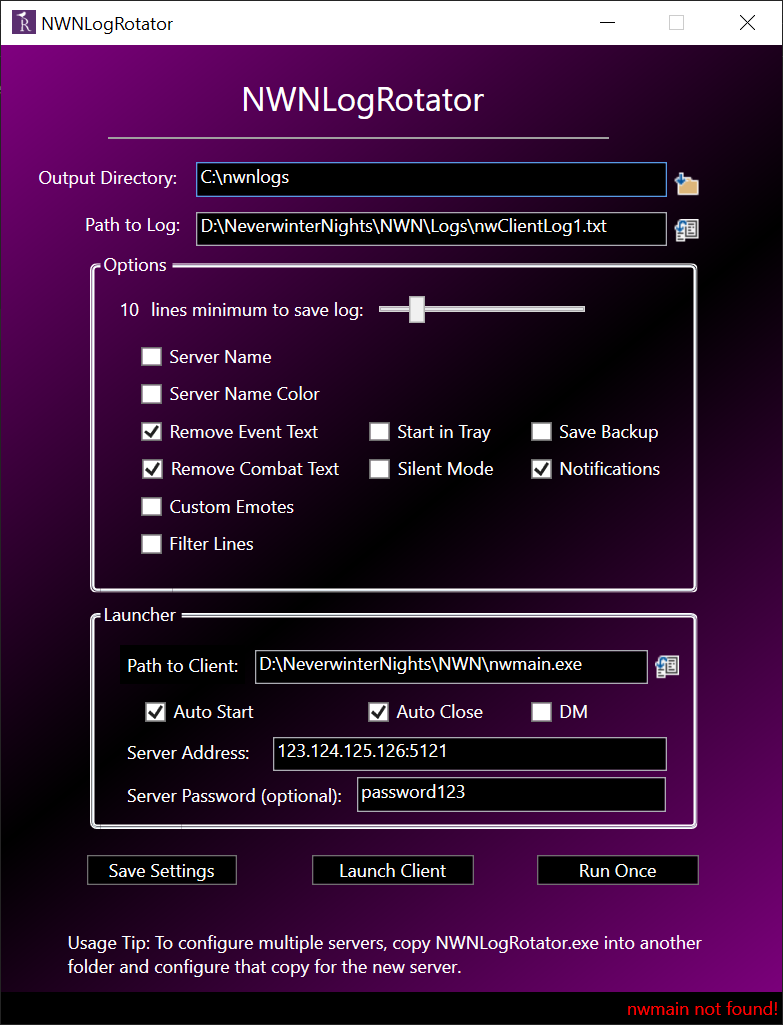
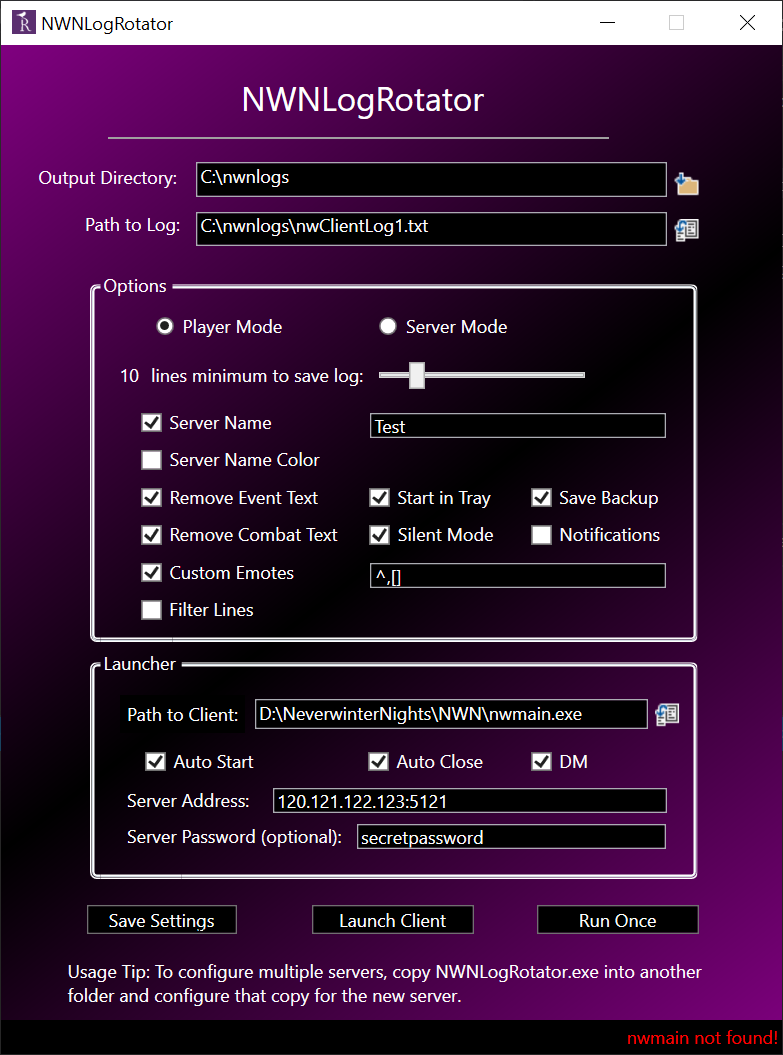
New server mode build & various UI changes

Changed region(s): [[0.0307, 0.0624, 0.9195, 0.9678], [0.0307, 0.0, 0.2146, 0.0312], [0.8889, 0.9678, 0.9195, 0.999]]

diff --git a/NWNLogRotator.xaml b/NWNLogRotator.xaml
@@ -19,9 +19,8 @@
         <Separator HorizontalAlignment="Left" Height="16" Margin="14,54,0,0" VerticalAlignment="Top" Width="334" Grid.Column="2"/>
         <TextBox x:Name="OutputDirectoryTextBox" HorizontalAlignment="Left" Height="23" Margin="73,78,0,0" TextWrapping="Wrap" Text="" VerticalAlignment="Top" Width="314" Grid.Column="2" RenderTransformOrigin="0.965,0.275"/>
         <TextBlock x:Name="SettingsTextBlock" Grid.Column="2" HorizontalAlignment="Left" Margin="103,20,0,0" TextWrapping="Wrap" VerticalAlignment="Top" FontSize="22" MouseDown="InvertColorScheme" MouseEnter="SettingsTextBlock_MouseEnter" MouseLeave="SettingsTextBlock_MouseLeave" ToolTip="Click here to change the theme!"><Run Text="NWNLogRotator"/></TextBlock>
-        <GroupBox x:Name="FlagGroupBox" Header="Options" HorizontalAlignment="Right" Height="247" Margin="0,151,56.333,0" VerticalAlignment="Top" Width="405" Grid.Column="2">
-            <TextBox x:Name="FilterLinesTextBox" HorizontalAlignment="Left" Height="17" Margin="180,172,0,0" TextWrapping="Wrap" Text="" VerticalAlignment="Top" Width="197" RenderTransformOrigin="0.965,0.275" Visibility="Collapsed" />
-        </GroupBox>
+        <GroupBox x:Name="FlagGroupBox" Header="Options" HorizontalAlignment="Right" Height="247" Margin="0,151,56.333,0" VerticalAlignment="Top" Width="405" Grid.Column="2"></GroupBox>
+        <TextBox x:Name="FilterLinesTextBox" HorizontalAlignment="Left" Height="17" Margin="189,369,0,0" TextWrapping="Wrap" Text="" VerticalAlignment="Top" Width="197" RenderTransformOrigin="0.965,0.275" Visibility="Collapsed" Grid.Column="2" />
         <CheckBox x:Name="EventTextCheckBox" Content="Remove Event Text" Grid.Column="2" HorizontalAlignment="Right" Margin="0,294,309.333,0" VerticalAlignment="Top" RenderTransformOrigin="0.5,0.5"/>
         <CheckBox x:Name="CombatTextCheckBox" Content="Remove Combat Text" Grid.Column="2" HorizontalAlignment="Right" Margin="0,319,296.333,0" VerticalAlignment="Top" RenderTransformOrigin="0.341,0.609"/>
         <Label x:Name="PathToLogLabel" Content="Path to Log:" HorizontalAlignment="Left" Margin="11.667,106,0,0" VerticalAlignment="Top" RenderTransformOrigin="0.44,2.721" Grid.Column="1" Grid.ColumnSpan="2"/>
@@ -38,9 +37,9 @@
             <TextBlock x:Name="NWNStatusTextBlock" TextWrapping="Wrap" Text="nwn.status" Width="152" RenderTransformOrigin="1.135,0.25" Height="29" TextAlignment="Right"/>
         </StatusBar>
         <Button x:Name="RunOnceButton" Content="Run Once" Grid.Column="2" HorizontalAlignment="Left" Margin="300,573,0,0" VerticalAlignment="Top" Width="108" RenderTransformOrigin="2.04,0.867" Click="Button_Click_1"/>
-        <TextBox x:Name="ServerNameTextBox" HorizontalAlignment="Left" Height="17" Margin="189,200,0,0" TextWrapping="Wrap" Text="" VerticalAlignment="Top" Width="197" Grid.Column="2" RenderTransformOrigin="0.965,0.275" Visibility="Collapsed"/>
-        <TextBox x:Name="ServerNameColorTextBox" HorizontalAlignment="Left" Height="17" Margin="189,225,0,0" TextWrapping="Wrap" Text="" VerticalAlignment="Top" Width="197" Grid.Column="2" RenderTransformOrigin="0.965,0.275" MaxLength="6" Visibility="Collapsed" />
-        <ProgressBar x:Name="StatusBarProgressBar" Grid.Column="2" HorizontalAlignment="Left" Height="10" Margin="149,574,0,0" VerticalAlignment="Top" Width="108" IsIndeterminate="True" Visibility="Collapsed"/>
+        <TextBox x:Name="ServerNameTextBox" HorizontalAlignment="Left" Height="17" Margin="189,245,0,0" TextWrapping="Wrap" Text="" VerticalAlignment="Top" Width="197" Grid.Column="2" RenderTransformOrigin="0.965,0.275" Visibility="Collapsed"/>
+        <TextBox x:Name="ServerNameColorTextBox" HorizontalAlignment="Left" Height="17" Margin="189,269,0,0" TextWrapping="Wrap" Text="" VerticalAlignment="Top" Width="197" Grid.Column="2" RenderTransformOrigin="0.965,0.275" MaxLength="6" Visibility="Collapsed" />
+        <ProgressBar x:Name="StatusBarProgressBar" Grid.Column="2" HorizontalAlignment="Left" Height="10" Margin="149,655,0,0" VerticalAlignment="Top" Width="108" IsIndeterminate="True" Visibility="Collapsed"/>
         <Image x:Name="OutputDirectoryButtonImage" Grid.Column="2" HorizontalAlignment="Left" Height="16" Margin="392,85,0,0" VerticalAlignment="Top" Width="16" RenderTransformOrigin="2.303,1.51" Source="Assets/Images/DownloadFolder_16x.png" MouseDown="Image_MouseDown"/>
         <Image x:Name="PathToLogButtonImage" Grid.Column="2" HorizontalAlignment="Left" Height="16" Margin="392,116,0,0" VerticalAlignment="Top" Width="16" RenderTransformOrigin="2.303,1.51" Source="Assets/Images/AssociationEditor_16x.png" MouseDown="Image_MouseDown2"/>
         <CheckBox x:Name="TrayCheckBox" Content="Start in Tray" Grid.Column="2" HorizontalAlignment="Right" Margin="0,294,194.333,0" VerticalAlignment="Top" RenderTransformOrigin="0.618,0.109"/>
@@ -49,19 +48,17 @@
         <CheckBox x:Name="NotificationsCheckBox" Content="Notifications" Grid.Column="2" HorizontalAlignment="Right" Margin="0,319,81.333,0" VerticalAlignment="Top" RenderTransformOrigin="0.341,0.609"/>
         <CheckBox x:Name="CustomEmotesCheckBox" Content="Custom Emotes" Grid.Column="2" HorizontalAlignment="Right" Margin="0,344,325.333,0" VerticalAlignment="Top" RenderTransformOrigin="0.341,0.609" Checked="CustomEmotesCheckBox_Checked" Unchecked="CustomEmotesCheckBox_Unchecked"/>
         <CheckBox x:Name="FilterLinesCheckBox" Content="Filter Lines" Grid.Column="2" HorizontalAlignment="Right" Margin="0,369,352.333,0" VerticalAlignment="Top" RenderTransformOrigin="0.341,0.609" Unchecked="FilterLinesCheckBox_Unchecked" Checked="FilterLinesCheckBox_Checked"/>
-        <TextBox x:Name="CustomEmotesTextBox" HorizontalAlignment="Left" Height="17" Margin="189,300,0,0" TextWrapping="Wrap" Text="" VerticalAlignment="Top" Width="197" Grid.Column="2" RenderTransformOrigin="0.965,0.275" MaxLength="6" Visibility="Collapsed" />
-        <GroupBox x:Name="LauncherGroupBox" Header="Launcher" HorizontalAlignment="Right" Height="153" Margin="0,403,56.333,0" VerticalAlignment="Top" Width="405" Grid.Column="2">
-            <TextBox x:Name="FilterLinesTextBox1" HorizontalAlignment="Left" Height="17" Margin="180,172,0,0" TextWrapping="Wrap" Text="" VerticalAlignment="Top" Width="197" RenderTransformOrigin="0.965,0.275" Visibility="Collapsed" />
-        </GroupBox>
+        <TextBox x:Name="CustomEmotesTextBox" HorizontalAlignment="Left" Height="17" Margin="189,345,0,0" TextWrapping="Wrap" Text="" VerticalAlignment="Top" Width="197" Grid.Column="2" RenderTransformOrigin="0.965,0.275" MaxLength="6" Visibility="Collapsed" />
+        <GroupBox x:Name="LauncherGroupBox" Header="Launcher" HorizontalAlignment="Right" Height="153" Margin="0,403,56.333,0" VerticalAlignment="Top" Width="405" Grid.Column="2"></GroupBox>
         <CheckBox x:Name="RunClientOnLaunchCheckBox" Content="Auto Start" Grid.Column="2" HorizontalAlignment="Right" Margin="0,470,352.333,0" VerticalAlignment="Top" RenderTransformOrigin="0.004,0.604"/>
         <CheckBox x:Name="CloseAfterGenerationCheckBox" Content="Auto Close" Grid.Column="2" HorizontalAlignment="Right" Margin="0,470,199.333,0" VerticalAlignment="Top" RenderTransformOrigin="0.004,0.604"/>
         <Label x:Name="PathToClientLabel" Content="Path to Client:" HorizontalAlignment="Left" Margin="22,433,0,0" VerticalAlignment="Top" RenderTransformOrigin="0.44,2.721" Grid.Column="2"/>
-        <TextBox x:Name="PathToClientTextBox" HorizontalAlignment="Left" Height="23" Margin="112,436,0,0" TextWrapping="Wrap" Text="" VerticalAlignment="Top" Width="262" Grid.Column="2" RenderTransformOrigin="0.965,0.275"/>
-        <Image x:Name="PathToClientImage" Grid.Column="2" HorizontalAlignment="Left" Height="16" Margin="379,440,0,0" VerticalAlignment="Top" Width="16" RenderTransformOrigin="2.303,1.51" Source="Assets/Images/AssociationEditor_16x.png" MouseDown="Image_MouseDown3"/>
-        <TextBox x:Name="ServerAddressTextBox" HorizontalAlignment="Left" Height="23" Margin="124,494,0,0" TextWrapping="Wrap" Text="" VerticalAlignment="Top" Width="263" Grid.Column="2" RenderTransformOrigin="0.965,0.275"/>
-        <Label x:Name="ServerAddressLabel" Content="Server Address:" HorizontalAlignment="Left" Margin="22,491,0,0" VerticalAlignment="Top" RenderTransformOrigin="0.44,2.721" Grid.Column="2"/>
-        <Label x:Name="ServerPasswordLabel" Content="Server Password (optional):" HorizontalAlignment="Left" Margin="22,520,0,0" VerticalAlignment="Top" RenderTransformOrigin="0.44,2.721" Grid.Column="2"/>
-        <TextBox x:Name="ServerPasswordTextBox" HorizontalAlignment="Left" Height="23" Margin="180,521,0,0" TextWrapping="Wrap" Text="" VerticalAlignment="Top" Width="206" Grid.Column="2" RenderTransformOrigin="0.965,0.275"/>
+        <TextBox x:Name="PathToClientTextBox" HorizontalAlignment="Left" Height="20" Margin="112,436,0,0" TextWrapping="Wrap" Text="" VerticalAlignment="Top" Width="262" Grid.Column="2" RenderTransformOrigin="0.965,0.275"/>
+        <Image x:Name="PathToClientImage" Grid.Column="2" HorizontalAlignment="Left" Height="16" Margin="379,439,0,0" VerticalAlignment="Top" Width="16" RenderTransformOrigin="2.303,1.51" Source="Assets/Images/AssociationEditor_16x.png" MouseDown="Image_MouseDown3"/>
+        <TextBox x:Name="ServerAddressTextBox" HorizontalAlignment="Left" Height="17" Margin="124,495,0,0" TextWrapping="Wrap" Text="" VerticalAlignment="Top" Width="263" Grid.Column="2" RenderTransformOrigin="0.965,0.275"/>
+        <Label x:Name="ServerAddressLabel" Content="Server Address:" HorizontalAlignment="Left" Margin="22,490,0,0" VerticalAlignment="Top" RenderTransformOrigin="0.44,2.721" Grid.Column="2"/>
+        <Label x:Name="ServerPasswordLabel" Content="Server Password (optional):" HorizontalAlignment="Left" Margin="22,514,0,0" VerticalAlignment="Top" RenderTransformOrigin="0.44,2.721" Grid.Column="2"/>
+        <TextBox x:Name="ServerPasswordTextBox" HorizontalAlignment="Left" Height="17" Margin="180,519,0,0" TextWrapping="Wrap" Text="" VerticalAlignment="Top" Width="206" Grid.Column="2" RenderTransformOrigin="0.965,0.275"/>
         <Label x:Name="HintLabel" Content="Usage Tip: To configure multiple servers, copy NWNLogRotator.exe into another&#xD;&#xA;folder and configure that copy for the new server." HorizontalAlignment="Left" Margin="0,604,0,0" VerticalAlignment="Top" RenderTransformOrigin="0.44,2.721" Grid.Column="1" Width="460" Height="42" Grid.ColumnSpan="2" />
         <Button x:Name="LaunchClientButton" Content="Launch Client" Grid.Column="2" HorizontalAlignment="Left" Margin="150,573,0,0" VerticalAlignment="Top" Width="108" RenderTransformOrigin="2.04,0.867" Click="Button_Click_3"/>
         <CheckBox x:Name="DMCheckBox" Content="DM" Grid.Column="2" HorizontalAlignment="Right" Margin="0,470,129.333,0" VerticalAlignment="Top" RenderTransformOrigin="0.004,0.604"/>

diff --git a/NWNLogRotator.xaml.cs b/NWNLogRotator.xaml.cs
@@ -37,7 +37,6 @@ namespace NWNLogRotator
         {
             LoadSettings_Handler();
             IterateNWN_Watcher(false);
-            LoadTray_Handler();
         }
 
         private Settings Settings_Get()
@@ -338,7 +337,9 @@ namespace NWNLogRotator
 
             UpdateResultsPane(3);
 
-            if(_settings.RunClientOnLaunch)
+            LoadTray_Handler();
+
+            if (_settings.RunClientOnLaunch)
                 LaunchClient();
         }
 
@@ -506,7 +507,7 @@ namespace NWNLogRotator
             return false;
         }
 
-        private void LaunchClient()
+        private async void LaunchClient()
         {
             _settings = CurrentSettings_Get();
             var theLaunchPath = "";
@@ -548,10 +549,13 @@ namespace NWNLogRotator
                     p.StartInfo.CreateNoWindow = true;
                     ClientLauncherState = 1;
                     IterateNWN_Watcher(false);
-                    p.Start();
-                    p.WaitForExit();
-                    ClientLauncherState = 2;
-                    IterateNWN_Watcher(true);
+                    await Task.Run(() =>
+                    {
+                        p.Start();
+                        p.WaitForExit();
+                        ClientLauncherState = 2;
+                        IterateNWN_Watcher(true);
+                    });
                 }
                 catch (Exception ex)
                 {

diff --git a/Properties/AssemblyInfo.cs b/Properties/AssemblyInfo.cs
@@ -49,5 +49,5 @@ using System.Windows;
 // You can specify all the values or you can default the Build and Revision Numbers
 // by using the '*' as shown below:
 // [assembly: AssemblyVersion("1.0.*")]
-[assembly: AssemblyVersion("0.0.4.3")]
-[assembly: AssemblyFileVersion("0.0.4.3")]
+[assembly: AssemblyVersion("0.0.4.2")]
+[assembly: AssemblyFileVersion("0.0.4.2")]
